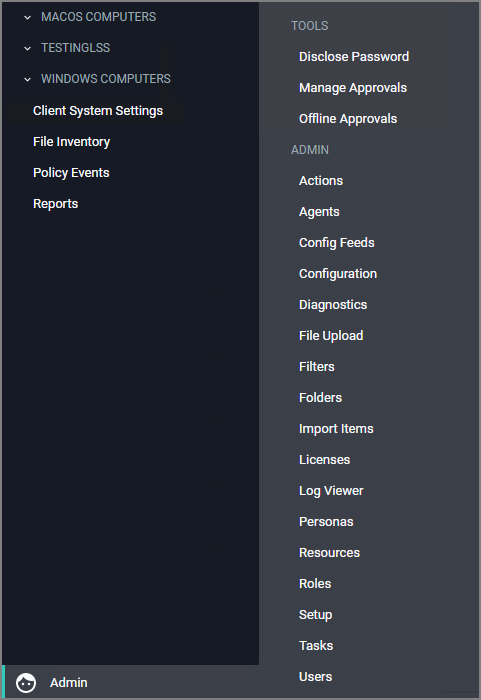
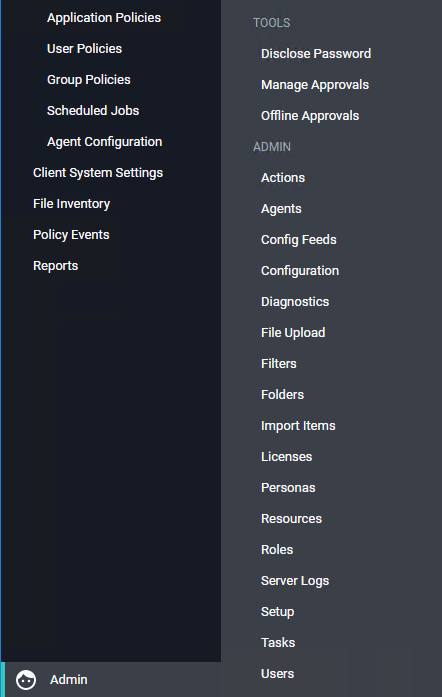
#207046: updated ui section with server log change

diff --git a/ui/navigation/index.md b/ui/navigation/index.md
@@ -110,11 +110,11 @@ The other available __Admin__ subitems are:
 * [Folders](../../admin/folders/index.md)
 * [Import Items](../../admin/import-items/index.md)
 * [Licenses](../../admin/tasks/reset-license.md)
-* [Log Viewer](../../troubleshooting/logs/ts-ui.md)
-* [Personas](../../admin/personas.md)
+* [Personas](../../admin/personas/index.md)
 * [Resources](../../admin/resources/index.md)
 * [Roles](../../admin/roles/index.md)
 * Secret Server - only available if integrated via Foreign Systems
+* [Server Log](../../admin/log-viewer/index.md)
 * [Setup](../../install/upgrades/index.md) - only available for On-premises instances
 * [Tasks](../../admin/tasks/index.md)
 * [Users](../../admin/users/index.md)
